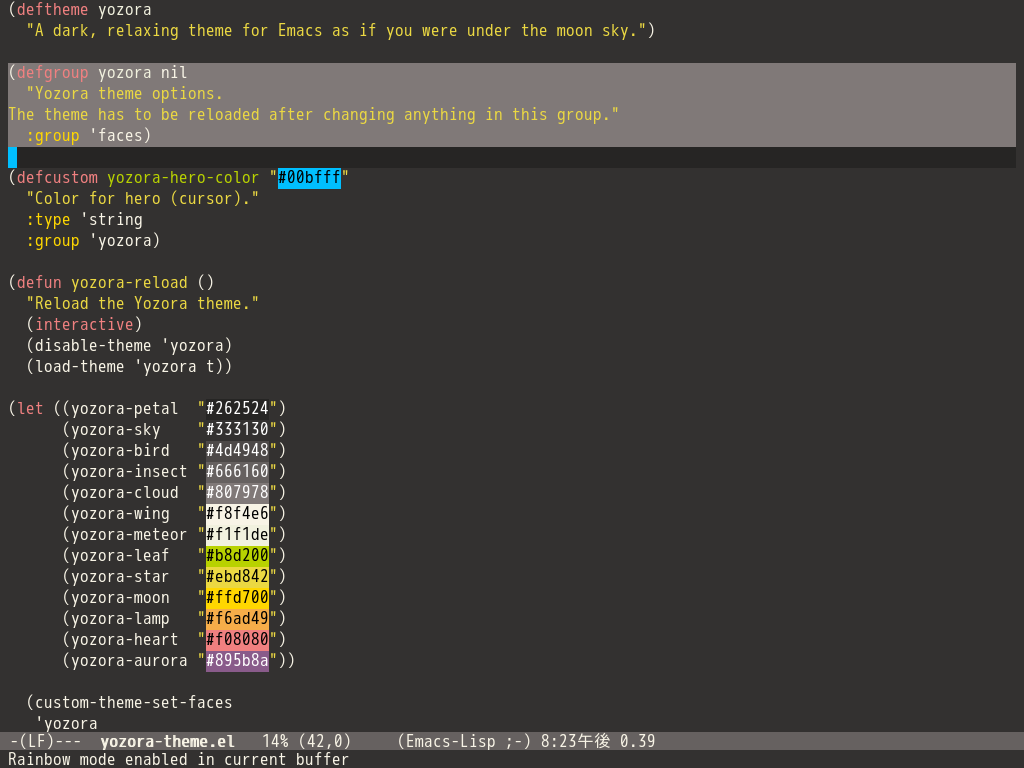
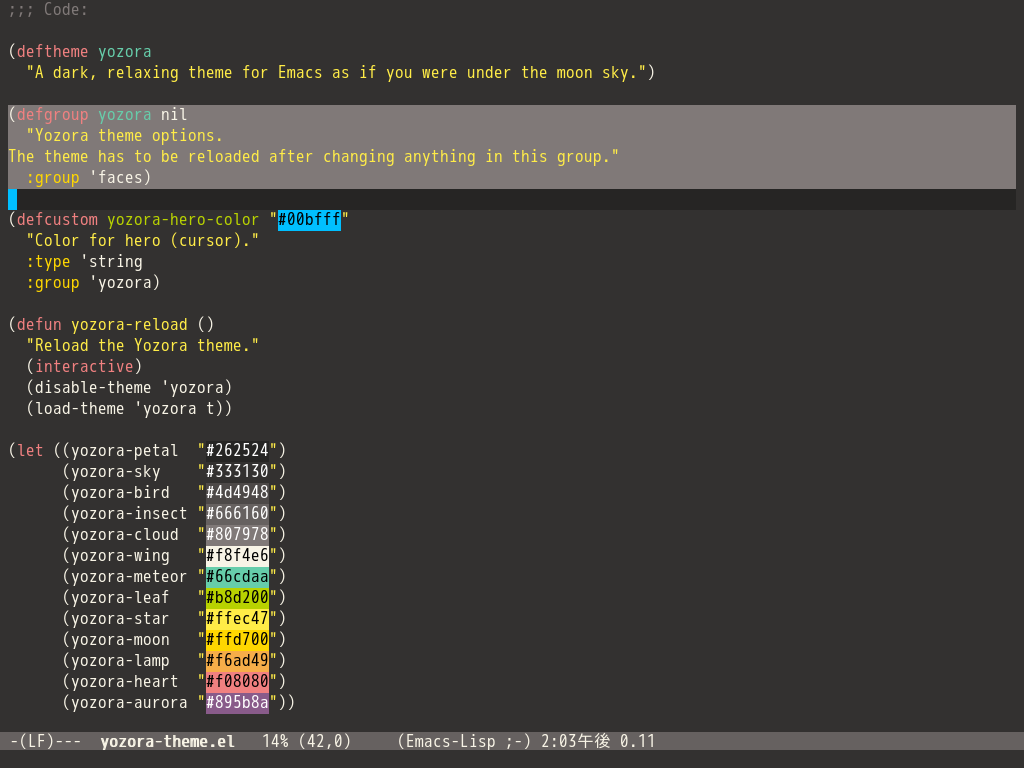
Update CHANGELOG.md, README.md and screenshot.png

Changed region(s): [[0.0, 0.0, 1.0, 1.0], [0.2188, 0.9688, 0.3438, 1.0], [0.625, 0.9375, 0.6562, 0.9688]]

diff --git a/README.md b/README.md
@@ -1,23 +1,23 @@
 # Yozora Theme
 
-A dark, relaxing theme for GNU Emacs as if you were under the moon sky.
+Yozora is a dark theme for GNU Emacs designed to create a relaxing atmosphere as if you were under the moon sky.
 
 ![Screenshot](screenshot.png)
 
 ## Installation
 
-1\. Download `yozora-theme.el` to your themes directory: `~/.emacs.d/themes/`
+1\. Download the `yozora-theme.el` file and save it in your themes directory: `~/.emacs.d/themes/`.
 
-2\. Add the following code to your configuration file: `~/.emacs.d/init.el`
+2\. Add the following code to your configuration file `~/.emacs.d/init.el`:
 
 ```elisp
 (add-to-list 'custom-theme-load-path "~/.emacs.d/themes")
 ```
-3\. Load the theme. Press the key below.
+3\. Load the theme. To load the theme, type the following key command:
 
 `M-x` `load-theme` `RET` `yozora` `RET`
 
-(Optional) If you want to make it the default theme, add the following code to your `init.el`.
+(Optional) If you want to make this theme the default, add the following code to your `init.el`:
 
 ```elisp
 (load-theme 'yozora t)
@@ -25,12 +25,16 @@ A dark, relaxing theme for GNU Emacs as if you were under the moon sky.
 
 ## Customization
 
-### Change hero (cursor) color!
+### Change the hero (cursor) color!
 
-1\. `M-x` `customize-option` `RET` `yozora-hero-color` `RET`
+1\. Type the following command:
 
-2\. Change color in widget and `Apply and Save`
+`M-x` `customize-option` `RET` `yozora-hero-color` `RET`
 
-3\. `M-x` `yozora-reload` `RET`
+2\. Change the color in the widget and click on `Apply and Save`.
 
-Yahohoho! Enjoy this theme!!
+3\. Type the following command to reload the theme:
+
+`M-x` `yozora-reload` `RET`
+
+That's it! Enjoy the Yozora theme!

diff --git a/CHANGELOG.md b/CHANGELOG.md
@@ -4,11 +4,15 @@
 
 ### Added
 
-Nothing yet.
+- markdown-list-face
+- markdown-header-face
+- markdown-header-delimiter-face
 
 ### Changed
 
 - yozora-petal color (#1a1818 -> #262524)
+- yozora-meteor color (#f1f1de -> #66cdaa)
+- yozora-star color (#ebd842 -> #ffec47)
 
 ## v0.6 (2023-05-15)
 
